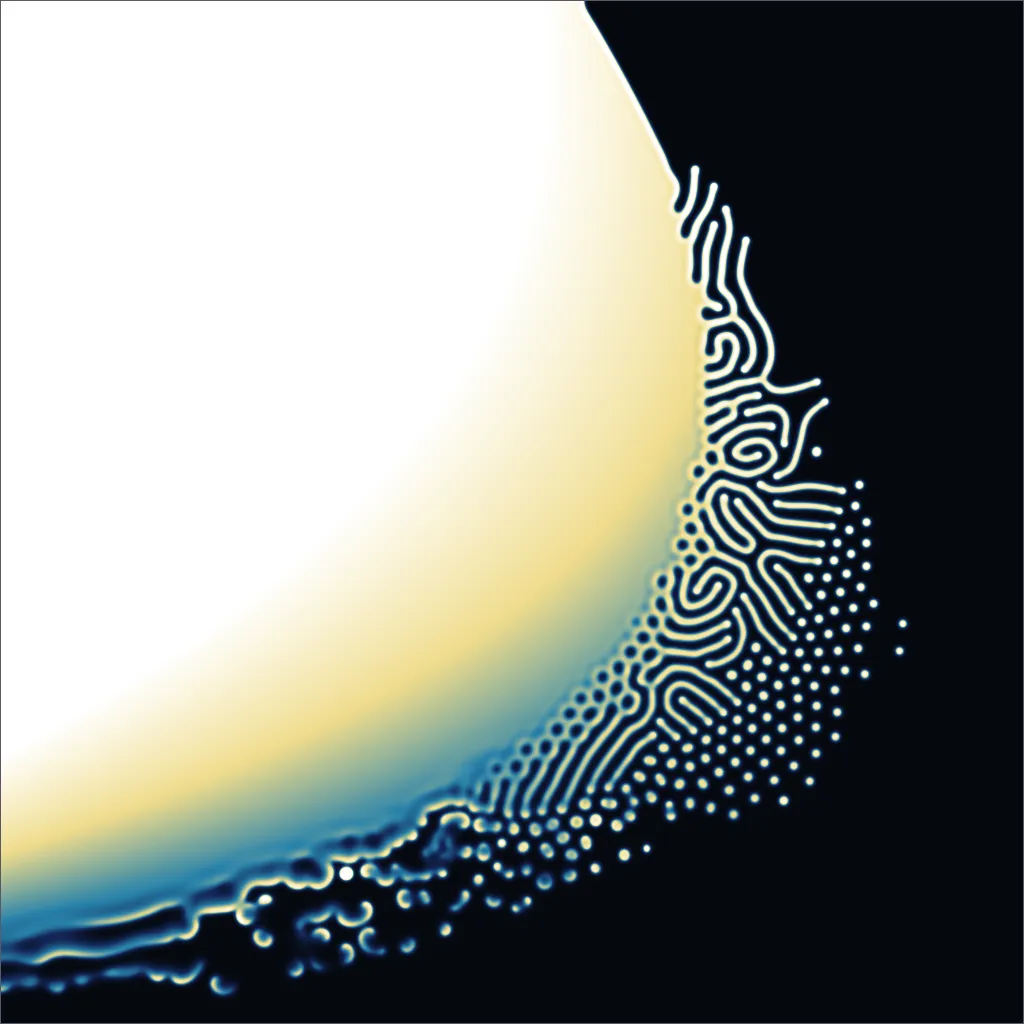
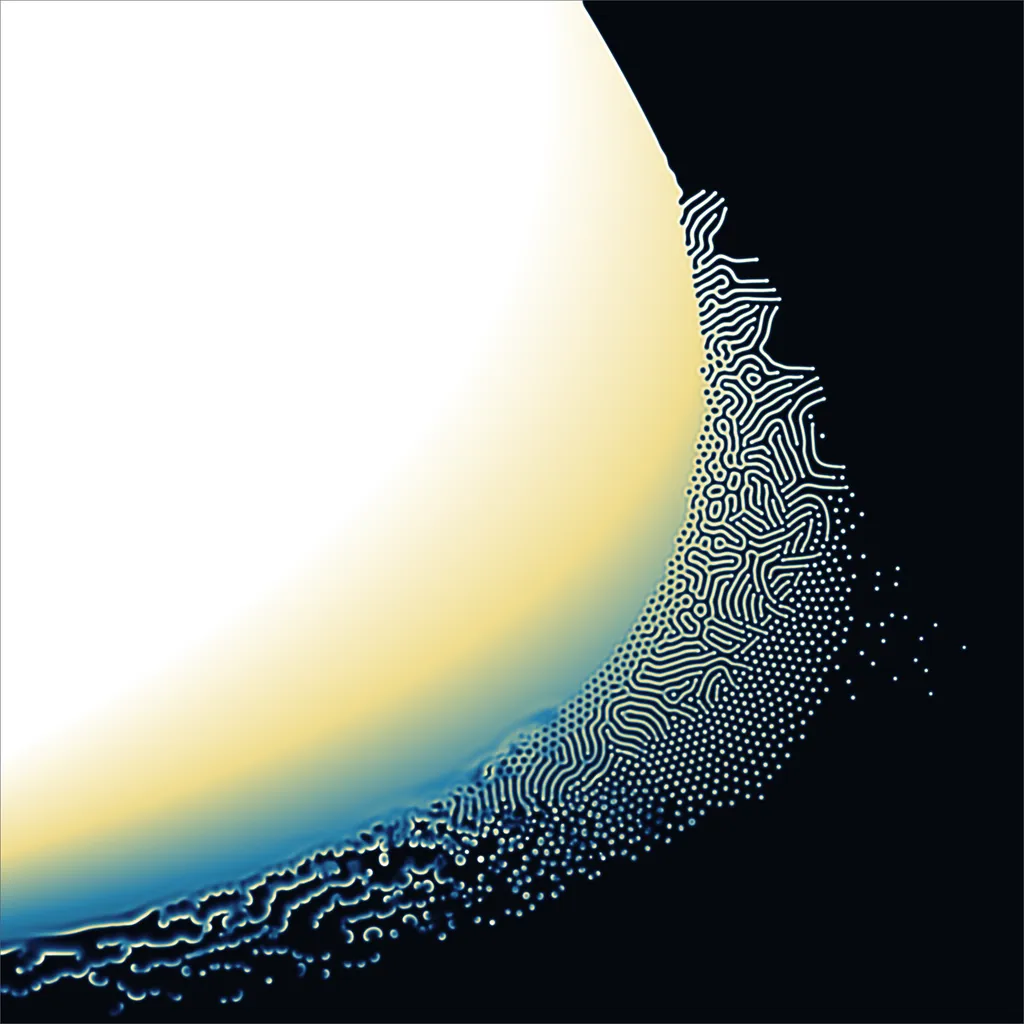
F/k map magnifier: pressing the small map picks and shows the map 4× zoomed about the value (it stays at the centre, the map moving under it) beside the sim, so the sim stays in view; dragging moves at that fine scale; gone on release. Map now from a 2048² run: 1024² overview plus 4×4 full-resolutio
Claude-Session: https://claude.ai/code/session_01PWDFkURZ4DCQYc5NVUcrpH

Changed region(s): [[0.0, 0.0938, 0.9062, 1.0], [0.5938, 0.0625, 0.625, 0.0938], [0.5625, 0.0, 0.5938, 0.0312]]

diff --git a/src/fkmap.ts b/src/fkmap.ts
@@ -1,9 +1,10 @@
 /**
  * The Gray-Scott (kill → x, feed ↑ y) map: drawing shared by the panel's small
- * pad and the full-screen map it opens. The backdrop is a real simulation of the
- * region (lab/gs-map.ts: every cell its own F and k, run 40k steps; b shown),
- * with the uniform state's saddle-node and Hopf curves, Pearson's classes and
- * rdui's presets over it.
+ * pad, the magnifier shown while dragging on it, and the full map. The backdrop
+ * is a real simulation of the region (lab/gs-map.ts: 2048², every cell its own
+ * F and k, 40k steps; b shown): a 1024² overview plus 4×4 tiles of 512² at full
+ * resolution, loaded when a zoomed view needs them. Over it go the uniform
+ * state's saddle-node and Hopf curves, Pearson's classes and rdui's presets.
  */
 import mapUrl from './assets/gs-map.webp';
 import { PEARSON, PRESETS } from './presets';
@@ -15,20 +16,46 @@ export const K_RANGE = [0.03, 0.075] as const;
 const mapImage = new Image();
 mapImage.src = mapUrl;
 
-/** Where to draw: a W×H box, F/k ↔ pixels. */
+// full-resolution tiles: t<x><y>.webp, x rightward (k), y downward (falling F)
+const TILES = 4;
+const tileUrls = import.meta.glob('./assets/gs-map-tiles/*.webp', { query: '?url', import: 'default', eager: true }) as Record<string, string>;
+const tileImages = new Map<string, HTMLImageElement>();
+let tileLoaded: (() => void) | null = null;
+function tile(tx: number, ty: number) {
+  const key = `${tx}${ty}`;
+  let im = tileImages.get(key);
+  if (!im) {
+    const url = tileUrls[`./assets/gs-map-tiles/t${key}.webp`];
+    if (!url) return null;
+    tileImages.set(key, (im = new Image()));
+    im.addEventListener('load', () => tileLoaded?.(), { once: true });
+    im.src = url;
+  }
+  return im.complete && im.naturalWidth ? im : null;
+}
+
+/** Where to draw: a W×H box showing the window k ∈ kv, F ∈ Fv (default: the whole map). */
 export interface MapFrame {
   W: number;
   H: number;
+  kv: readonly [number, number];
+  Fv: readonly [number, number];
   toX(k: number): number;
   toY(f: number): number;
 }
 
-export function mapFrame(W: number, H: number): MapFrame {
+export function mapFrame(W: number, H: number, kv: readonly [number, number] = K_RANGE, Fv: readonly [number, number] = F_RANGE): MapFrame {
   return {
-    W, H,
-    toX: (k) => ((k - K_RANGE[0]) / (K_RANGE[1] - K_RANGE[0])) * W,
-    toY: (f) => H - ((f - F_RANGE[0]) / (F_RANGE[1] - F_RANGE[0])) * H,
+    W, H, kv, Fv,
+    toX: (k) => ((k - kv[0]) / (kv[1] - kv[0])) * W,
+    toY: (f) => H - ((f - Fv[0]) / (Fv[1] - Fv[0])) * H,
   };
+}
+
+/** A W×H window zoomed `zoom`× about (F, k). */
+export function zoomFrame(W: number, H: number, F: number, k: number, zoom: number) {
+  const hk = (K_RANGE[1] - K_RANGE[0]) / zoom / 2, hF = ((F_RANGE[1] - F_RANGE[0]) / zoom / 2) * (H / W);
+  return mapFrame(W, H, [k - hk, k + hk], [F - hF, F + hF]);
 }
 
 /** F, k under a point given as 0–1 fractions of the box. */
@@ -60,12 +87,22 @@ export function drawMap(ctx: CanvasRenderingContext2D, f: MapFrame, o: { dim: nu
   const { W, H, toX, toY } = f;
   ctx.fillStyle = '#0d0f14';
   ctx.fillRect(0, 0, W, H);
-  if (mapImage.complete && mapImage.naturalWidth) {
-    ctx.globalAlpha = 1 - o.dim;
-    ctx.imageSmoothingQuality = 'high';
-    ctx.drawImage(mapImage, 0, 0, W, H);
-    ctx.globalAlpha = 1;
+  // the map's own extent in this frame
+  const x0 = toX(K_RANGE[0]), x1 = toX(K_RANGE[1]), y0 = toY(F_RANGE[1]), y1 = toY(F_RANGE[0]);
+  ctx.globalAlpha = 1 - o.dim;
+  ctx.imageSmoothingQuality = 'high';
+  if (mapImage.complete && mapImage.naturalWidth) ctx.drawImage(mapImage, x0, y0, x1 - x0, y1 - y0);
+  // zoomed past the overview's resolution: the visible full-resolution tiles over it
+  if ((x1 - x0) * (window.devicePixelRatio || 1) > mapImage.naturalWidth * 1.2) {
+    const tw = (x1 - x0) / TILES, th = (y1 - y0) / TILES;
+    for (let ty = 0; ty < TILES; ty++) for (let tx = 0; tx < TILES; tx++) {
+      const X = x0 + tx * tw, Y = y0 + ty * th;
+      if (X > W || Y > H || X + tw < 0 || Y + th < 0) continue;
+      const im = tile(tx, ty);
+      if (im) ctx.drawImage(im, X, Y, tw + 0.5, th + 0.5);
+    }
   }
+  ctx.globalAlpha = 1;
   if (!o.guides) return;
   const curve = (pts: [number, number][], style: string, dash: number[]) => {
     ctx.strokeStyle = style;
@@ -118,13 +155,21 @@ export function drawMap(ctx: CanvasRenderingContext2D, f: MapFrame, o: { dim: nu
       ctx.strokeText(s, x, y);
       ctx.fillText(s, x, y);
     };
-    for (let i = 1; i < 9; i++) t((0.03 + i * 0.005).toFixed(3), toX(0.03 + i * 0.005) - 16, H - 6);
-    for (let i = 1; i < 10; i++) t((i / 100).toFixed(2), 6, toY(i / 100) + 4);
+    // ~6 ticks per axis at a round step, inset from the edges
+    const ticks = (lo: number, hi: number, put: (v: number, s: string) => void) => {
+      const raw = (hi - lo) / 6, p = 10 ** Math.floor(Math.log10(raw)), step = [1, 2, 5, 10].map((m) => m * p).find((m) => m >= raw)!;
+      const dec = Math.max(0, -Math.floor(Math.log10(step)));
+      for (let v = Math.ceil(lo / step) * step; v < hi; v += step) put(v, v.toFixed(dec));
+    };
+    ticks(f.kv[0] + (f.kv[1] - f.kv[0]) * 0.06, f.kv[1] - (f.kv[1] - f.kv[0]) * 0.1, (v, s) => t(s, toX(v) - 16, H - 6));
+    ticks(f.Fv[0] + (f.Fv[1] - f.Fv[0]) * 0.04, f.Fv[1] - (f.Fv[1] - f.Fv[0]) * 0.06, (v, s) => t(s, 6, toY(v) + 4));
     t('kill k →', W - 70, H - 22);
     t('feed F ↑', 6, 16);
-    const snF = 0.012, hF = 0.03;
-    t('saddle-node', toX(Math.sqrt(snF) / 2 - snF) + 6, toY(snF));
-    t('Hopf', toX(hopfK(hF)) - 40, toY(hF));
+    if (f.kv[0] === K_RANGE[0] && f.kv[1] === K_RANGE[1]) {
+      const snF = 0.012, hF = 0.03;
+      t('saddle-node', toX(Math.sqrt(snF) / 2 - snF) + 6, toY(snF));
+      t('Hopf', toX(hopfK(hF)) - 40, toY(hF));
+    }
   } else {
     ctx.fillStyle = '#5b6b85';
     ctx.fillText('kill →', W - 38, H - 4);
@@ -156,6 +201,60 @@ export function drawMarkers(ctx: CanvasRenderingContext2D, f: MapFrame, s: Setti
 export function onMapLoaded(then: () => void) {
   if (mapImage.complete) return;
   mapImage.addEventListener('load', then, { once: true });
+}
+
+/**
+ * The magnifier shown while dragging on the small pad: the map zoomed `ZOOM`×
+ * about the value being picked (which stays at its centre, the map moving under
+ * it), in the largest stretch of screen beside the simulation so the sim stays
+ * in view. Gone when the finger lifts.
+ */
+export const LOUPE_ZOOM = 4;
+export function openLoupe(s: Settings, background: () => Record<string, number>) {
+  const W = window.innerWidth, H = window.innerHeight;
+  const vr = document.querySelector('#viewport')?.getBoundingClientRect();
+  // candidate regions clear of the sim: left, right, above, below it
+  const regions = vr ? [[0, 0, vr.left, H], [vr.right, 0, W - vr.right, H], [0, 0, W, vr.top], [0, vr.bottom, W, H - vr.bottom]] : [[0, 0, W, H]];
+  let [rx, ry, rw, rh] = regions.reduce((a, b) => (Math.min(b[2], b[3]) > Math.min(a[2], a[3]) ? b : a));
+  if (Math.min(rw, rh) < 180) [rx, ry, rw, rh] = [0, 0, W, H]; // no room beside it: cover the middle
+  const size = Math.floor(Math.min(rw, rh, 720) - 16);
+  const dpr = window.devicePixelRatio || 1;
+  const canvas = el('canvas', { class: 'fkloupe-canvas' });
+  canvas.width = canvas.height = size * dpr;
+  canvas.style.width = canvas.style.height = `${size}px`;
+  const readout = el('div', { class: 'fkloupe-readout' });
+  const root = el('div', { class: 'fkloupe' }, canvas, readout);
+  root.style.left = `${rx + (rw - size) / 2}px`;
+  root.style.top = `${ry + (rh - size) / 2}px`;
+  document.body.append(root);
+  const ctx = canvas.getContext('2d')!;
+
+  function draw() {
+    const bg = background();
+    const [F, k] = s.fkTarget === 'brush' ? [s.paint.F, s.paint.k] : [bg.F, bg.k];
+    const frame = zoomFrame(size, size, F, k, LOUPE_ZOOM);
+    ctx.setTransform(dpr, 0, 0, dpr, 0, 0);
+    drawMap(ctx, frame, { dim: 0, big: true, guides: true });
+    drawMarkers(ctx, frame, s, bg, 1.6);
+    // crosshair on the value being picked
+    ctx.strokeStyle = 'rgba(255,255,255,0.8)';
+    ctx.lineWidth = 1;
+    const c = size / 2;
+    ctx.beginPath();
+    ctx.moveTo(c - 14, c); ctx.lineTo(c - 5, c); ctx.moveTo(c + 5, c); ctx.lineTo(c + 14, c);
+    ctx.moveTo(c, c - 14); ctx.lineTo(c, c - 5); ctx.moveTo(c, c + 5); ctx.lineTo(c, c + 14);
+    ctx.stroke();
+    readout.textContent = `${s.fkTarget} F ${F.toFixed(4)} k ${k.toFixed(4)}`;
+  }
+  tileLoaded = draw;
+  draw();
+  return {
+    draw,
+    close() {
+      tileLoaded = null;
+      root.remove();
+    },
+  };
 }
 
 /**

diff --git a/src/ui.ts b/src/ui.ts
@@ -1,5 +1,5 @@
 import { PRESETS } from './presets';
-import { drawMap, drawMarkers, mapFrame, onMapLoaded, openFKMap, pickFK } from './fkmap';
+import { F_RANGE, K_RANGE, LOUPE_ZOOM, drawMap, drawMarkers, mapFrame, onMapLoaded, openFKMap, openLoupe, pickFK } from './fkmap';
 import type { RuleDef } from './rule';
 
 export type Tool = 'seed' | 'erase' | 'params' | 'wall' | 'capture' | 'stamp' | 'probe';
@@ -277,6 +277,7 @@ export function buildPanel(root: HTMLElement, s: Settings, actions: Actions, rc:
         ruleSyncers.push(() => b.classList.toggle('active', s.fkTarget === id));
         targetRow.append(b);
       }
+      targetRow.append(button('Map ⤢', () => openFKMap(s, () => globals, setFK, sync), 'the whole map, with Pearson\'s classes and the bifurcation curves'));
       const presetRow = el('div', { class: 'presets' });
       for (const p of PRESETS) {
         const b = button(p.name, () => setFK(p.feed, p.kill), p.note);
@@ -380,7 +381,7 @@ export function buildPanel(root: HTMLElement, s: Settings, actions: Actions, rc:
       }).row,
     ),
     el('footer', {}, el('p', { class: 'hint' },
-      '1–7 tools · [ ] radius · space run/pause · . step · F fill · R reset · C clear · V cycle reagent · T cycle tint · right-click alt action · Esc cancel')),
+      '1–7 tools · [ ] radius · space run/pause · . step · F fill · R reset · C clear · V cycle reagent · T cycle tint · H hide panel · right-click alt action · Esc cancel')),
   );
 
   rebuildRule();
@@ -389,14 +390,14 @@ export function buildPanel(root: HTMLElement, s: Settings, actions: Actions, rc:
 
 /**
  * The small (kill → x, feed ↑ y) map in the panel: the simulated map dimmed
- * behind presets and the brush/background markers. A drag picks values; a tap
- * opens the full map (fkmap.ts).
+ * behind presets and the brush/background markers. Pressing picks and shows a
+ * magnifier for fine dragging (fkmap.ts).
  */
 function buildFKPad(s: Settings, background: () => Record<string, number>, set: (F: number, k: number) => void) {
   const W = 260;
   const H = 170;
   const dpr = window.devicePixelRatio || 1;
-  const canvas = el('canvas', { class: 'fkpad', title: 'tap to open the full map · drag to pick feed (y) and kill (x)' });
+  const canvas = el('canvas', { class: 'fkpad', title: 'press to pick feed (y) and kill (x); drag for fine control on the magnified map' });
   canvas.width = W * dpr;
   canvas.height = H * dpr;
   canvas.style.width = `${W}px`;
@@ -411,26 +412,31 @@ function buildFKPad(s: Settings, background: () => Record<string, number>, set: 
   }
   onMapLoaded(draw);
 
-  const pick = (e: PointerEvent) => {
-    const r = canvas.getBoundingClientRect();
-    set(...pickFK((e.clientX - r.left) / r.width, (e.clientY - r.top) / r.height));
+  // Press: pick the value under the finger and show the magnifier; drag: move it
+  // at the magnifier's scale (fine control); lift: the magnifier goes.
+  let drag: { x: number; y: number; F: number; k: number; loupe: ReturnType<typeof openLoupe> } | null = null;
+  const end = () => {
+    drag?.loupe.close();
+    drag = null;
   };
-  // a press that moves more than a few px is a drag (picks live); one that doesn't is a tap (opens the map)
-  let down: { x: number; y: number; drag: boolean } | null = null;
   canvas.addEventListener('pointerdown', (e) => {
     canvas.setPointerCapture(e.pointerId);
-    down = { x: e.clientX, y: e.clientY, drag: false };
+    const r = canvas.getBoundingClientRect();
+    const [F, k] = pickFK((e.clientX - r.left) / r.width, (e.clientY - r.top) / r.height);
+    set(F, k);
+    drag = { x: e.clientX, y: e.clientY, F, k, loupe: openLoupe(s, background) };
   });
   canvas.addEventListener('pointermove', (e) => {
-    if (!down) return;
-    if (!down.drag && Math.hypot(e.clientX - down.x, e.clientY - down.y) > 4) down.drag = true;
-    if (down.drag) pick(e);
+    if (!drag) return;
+    const r = canvas.getBoundingClientRect();
+    const dk = ((e.clientX - drag.x) / r.width) * (K_RANGE[1] - K_RANGE[0]) / LOUPE_ZOOM;
+    const dF = (-(e.clientY - drag.y) / r.height) * (F_RANGE[1] - F_RANGE[0]) / LOUPE_ZOOM;
+    const clamp = (v: number, [lo, hi]: readonly [number, number]) => Math.min(Math.max(v, lo), hi);
+    set(clamp(drag.F + dF, F_RANGE), clamp(drag.k + dk, K_RANGE));
+    drag.loupe.draw();
   });
-  canvas.addEventListener('pointerup', () => {
-    if (down && !down.drag) openFKMap(s, background, set, draw);
-    down = null;
-  });
-  canvas.addEventListener('pointercancel', () => (down = null));
+  canvas.addEventListener('pointerup', end);
+  canvas.addEventListener('pointercancel', end);
 
   return { canvas, draw };
 }

diff --git a/src/style.css b/src/style.css
@@ -179,9 +179,23 @@ footer { border-top: 1px solid var(--line); padding-top: 8px; }
 .nogpu code { color: var(--accent); }
 
 @media (max-width: 720px) {
+  /* portrait phone: a square sim on top, the panel takes everything below */
   #app { flex-direction: column; }
-  #panel { width: 100%; height: 45vh; border-left: 0; border-top: 1px solid var(--line); }
+  #stage { flex: 0 0 auto; height: min(100vw, 62vh); }
+  #panel { width: 100%; flex: 1; min-height: 0; border-left: 0; border-top: 1px solid var(--line); }
 }
+
+/* hidden UI: just the sim, centred; a small button brings the panel back */
+#app.ui-hidden #panel { display: none; }
+#app.ui-hidden #stage { flex: 1; height: auto; }
+#app.ui-hidden #readout { display: none; }
+.ui-toggle { position: absolute; right: 8px; bottom: 8px; z-index: 5; padding: 2px 8px; font-size: 16px; opacity: 0.55; }
+.ui-toggle:hover { opacity: 1; }
+
+/* magnifier while dragging on the F/k pad (fkmap.ts) */
+.fkloupe { position: fixed; z-index: 40; pointer-events: none; border: 1px solid var(--accent); border-radius: 4px; overflow: hidden; box-shadow: 0 4px 24px rgba(0,0,0,0.6); }
+.fkloupe-canvas { display: block; }
+.fkloupe-readout { position: absolute; left: 0; right: 0; top: 0; padding: 3px 6px; font: 11px ui-monospace, monospace; color: var(--text); background: rgba(8,9,12,0.7); text-align: center; }
 
 /* full-screen F/k map (fkmap.ts) */
 .fkmap { position: fixed; inset: 0; z-index: 50; background: rgba(4, 5, 8, 0.82); display: flex; align-items: center; justify-content: center; }

diff --git a/src/main.ts b/src/main.ts
@@ -452,6 +452,21 @@ async function init() {
   new ResizeObserver(fit).observe(stage);
   fit();
 
+  // hide/show the panel (H, or the ⛶ button): the sim alone, centred, fullscreen where allowed
+  const app = document.querySelector<HTMLElement>('#app')!;
+  function toggleUI() {
+    const hide = !app.classList.contains('ui-hidden');
+    app.classList.toggle('ui-hidden', hide);
+    if (hide) document.documentElement.requestFullscreen?.().catch(() => {});
+    else if (document.fullscreenElement) document.exitFullscreen().catch(() => {});
+  }
+  const uiToggle = document.createElement('button');
+  uiToggle.className = 'ui-toggle';
+  uiToggle.textContent = '⛶';
+  uiToggle.title = 'hide/show the panel · H';
+  uiToggle.addEventListener('click', toggleUI);
+  stage.append(uiToggle);
+
   // --- stamp placement helpers: transform, then remap into the current layout by name
   let ghostCache: { key: string; stamp: Stamp; image: HTMLCanvasElement; state: Float32Array; params: Float32Array } | null = null;
   function placedStamp() {
@@ -642,6 +657,7 @@ async function init() {
     else if (e.key === 'q') s.stampRot = (s.stampRot + 3) % 4;
     else if (e.key === 'e') s.stampRot = (s.stampRot + 1) % 4;
     else if (e.key === 'x') s.stampFlip = !s.stampFlip;
+    else if (e.key === 'h') toggleUI();
     else if (e.key === 'Escape') { drag = null; rectDrag = null; }
     else return;
     ui.sync();
